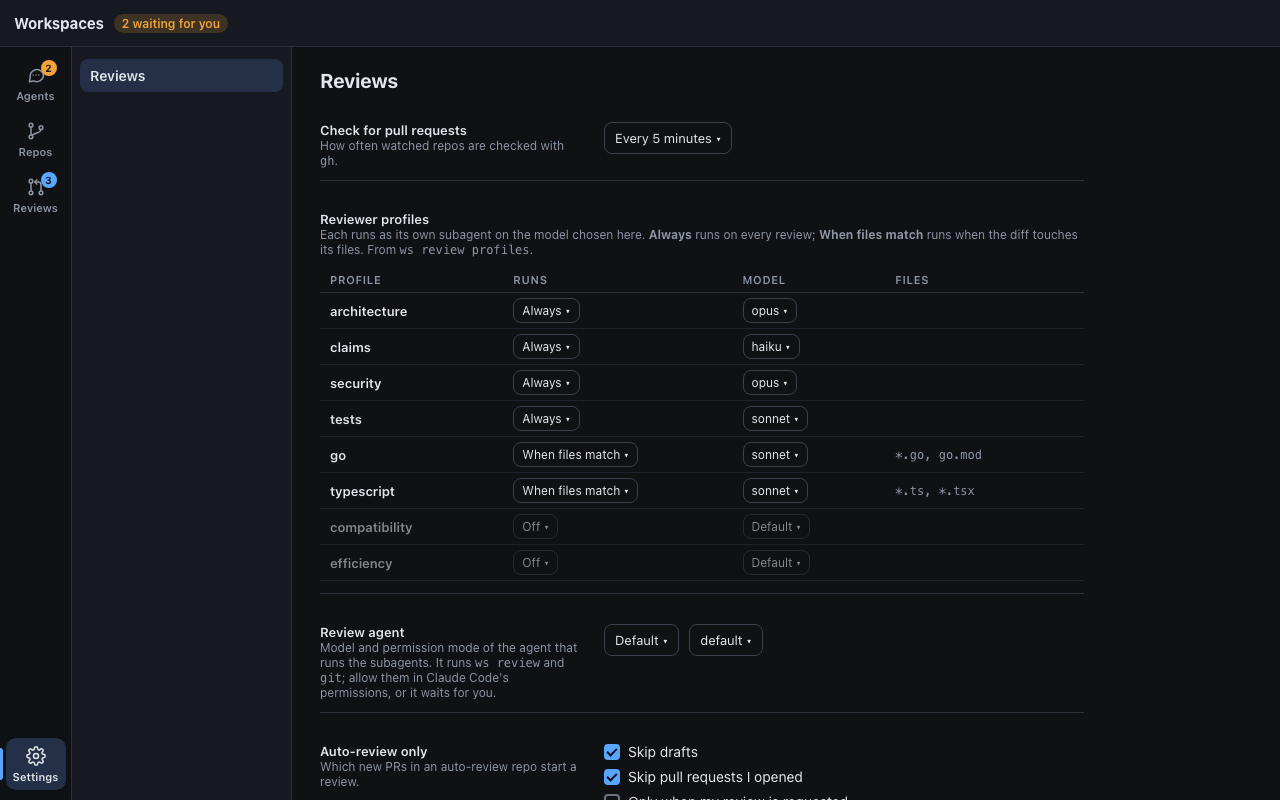
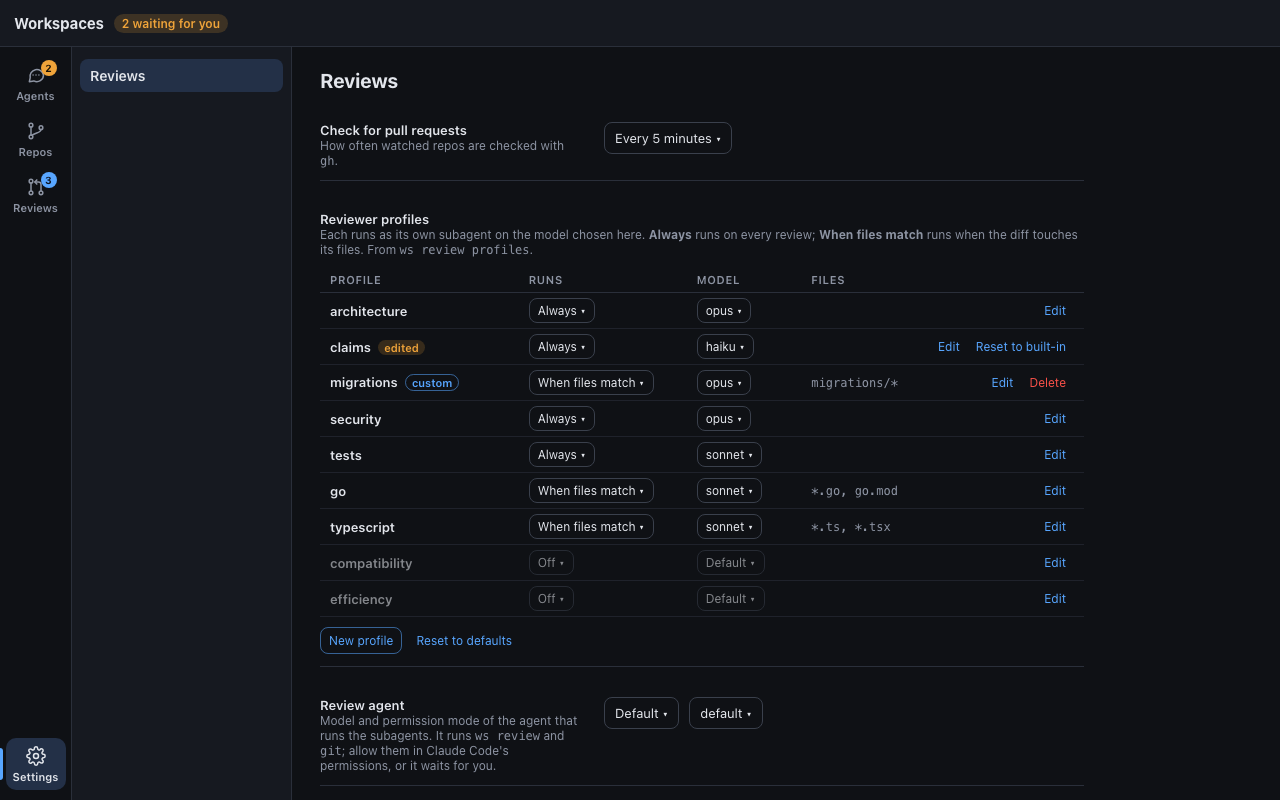
docs: design review profile management (ADR 0042) (#21)
Profiles are added, edited, and deleted with ws review profiles
subcommands, as files in CONFIG_DIR/review/profiles; editing a
built-in makes an override that deleting restores. Settings get a
profile editor and row actions.

Claude-Session: https://claude.ai/code/session_012GA632Y7YmUDztDM46q2zq

diff --git a/docs/design/loam-refinery-reviews/mockups.html b/docs/design/loam-refinery-reviews/mockups.html
@@ -550,7 +550,7 @@ ws review report review-buff-bear-42-3f2a9c1-8e1d --decided fix --json</div>
 );
 
 /* Settings */
-const settingsScreen = () => `
+const settingsScreen = (overlay = "") => `
   <div class="root">
     ${topBar("")}
     <div class="body">
@@ -563,20 +563,22 @@ const settingsScreen = () => `
         <div class="setting"><div class="label"><div>Check for pull requests</div><div class="muted">How often watched repos are checked with <span class="mono">gh</span>.</div></div><div class="control"><span class="input">Every 5 minutes ▾</span></div></div>
         <div class="setting" style="flex-direction:column;gap:10px"><div class="label" style="width:auto"><div>Reviewer profiles</div><div class="muted">Each runs as its own subagent on the model chosen here. <b>Always</b> runs on every review; <b>When files match</b> runs when the diff touches its files. From <span class="mono">ws review profiles</span>.</div></div>
           <table class="ptable">
-            <thead><tr><th style="width:24%">Profile</th><th style="width:30%">Runs</th><th style="width:20%">Model</th><th>Files</th></tr></thead>
+            <thead><tr><th style="width:26%">Profile</th><th style="width:22%">Runs</th><th style="width:15%">Model</th><th style="width:15%">Files</th><th></th></tr></thead>
             <tbody>
               ${[
                 ["architecture", "Always", "opus", ""],
-                ["claims", "Always", "haiku", ""],
+                ["claims", "Always", "haiku", "", "edited"],
+                ["migrations", "When files match", "opus", "migrations/*", "custom"],
                 ["security", "Always", "opus", ""],
                 ["tests", "Always", "sonnet", ""],
                 ["go", "When files match", "sonnet", "*.go, go.mod"],
                 ["typescript", "When files match", "sonnet", "*.ts, *.tsx"],
                 ["compatibility", "Off", "Default", ""],
                 ["efficiency", "Off", "Default", ""],
-              ].map(([n, w, m, f]) => `<tr style="${w === "Off" ? "opacity:.55" : ""}"><td style="font-weight:600">${n}</td><td><span class="input">${w} ▾</span></td><td><span class="input">${m} ▾</span></td><td class="mono muted" style="font-size:12px">${f}</td></tr>`).join("")}
+              ].map(([n, w, m, f, src]) => `<tr><td style="font-weight:600;${w === "Off" ? "opacity:.55" : ""}">${n}${src ? ` <span class="chip small ${src === "custom" ? "link" : "warn"}" style="margin-left:4px">${src}</span>` : ""}</td><td style="${w === "Off" ? "opacity:.55" : ""}"><span class="input">${w} ▾</span></td><td style="${w === "Off" ? "opacity:.55" : ""}"><span class="input">${m} ▾</span></td><td class="mono muted" style="font-size:12px">${f}</td><td style="text-align:right"><button class="btn small">Edit</button>${src === "custom" ? '<button class="btn small danger">Delete</button>' : src === "edited" ? '<button class="btn small">Reset to built-in</button>' : ""}</td></tr>`).join("")}
             </tbody>
           </table>
+          <div class="row" style="gap:6px"><button class="btn small outlined">New profile</button><button class="btn small">Reset to defaults</button></div>
         </div>
         <div class="setting"><div class="label"><div>Review agent</div><div class="muted">Model and permission mode of the agent that runs the subagents. It runs <span class="mono">ws review</span> and <span class="mono">git</span>; allow them in Claude Code's permissions, or it waits for you.</div></div><div class="control"><span class="input">Default ▾</span><span class="input">default ▾</span></div></div>
         <div class="setting"><div class="label"><div>Auto-review only</div><div class="muted">Which new PRs in an auto-review repo start a review.</div></div><div class="control" style="flex-direction:column;align-items:flex-start;gap:8px">
@@ -587,7 +589,33 @@ const settingsScreen = () => `
         <div class="setting"><div class="label"><div>At most</div><div class="muted">Auto-reviews running at once; the rest wait.</div></div><div class="control"><span class="input">2</span><span class="muted">review agents</span></div></div>
       </div></main>
     </div>
+    ${overlay}
   </div>`;
+
+
+const profileEditDialog = () => `
+  <div class="scrim"><div class="dialog wide">
+    <h2>Edit reviewer profile</h2>
+    <div class="dbody" style="gap:14px">
+      <div class="alert info"><span><b>security</b> is built in. Saving makes an edited copy in your profiles; <b>Reset to built-in</b> undoes it.</span></div>
+      <div class="fields"><div class="field"><label>Name</label><span class="mono">security</span></div><div class="field" style="flex:2.2"><label>Description</label>Security: untrusted input, the boundary it crosses, and what it reaches</div></div>
+      <div class="field"><label>File patterns</label><span class="row" style="gap:6px"><span class="chip small mono">none</span><span class="muted">Add a pattern, such as <span class="mono">*.go</span>, so it can run when files match</span></span></div>
+      <div>
+        <div class="tabs" style="margin-bottom:6px"><span class="tab active">Write</span><span class="tab">Preview</span><span class="spacer"></span><span class="muted">Markdown · the reviewer's instructions</span></div>
+        <div class="textarea" style="height:230px;overflow:hidden">Anchor a finding at the line where untrusted input crosses a boundary, not where it is finally used.
+
+Look hardest at:
+
+- Input from requests, files, and environment that reaches a query, a shell, a path, or a template without validation.
+- Secrets in logs, errors, and URLs; tokens compared without constant time.
+- Authorization checked in the handler but not in the code path a second caller uses.
+
+Also flag, in this codebase:
+- Webhook signatures checked after the body is parsed.</div>
+      </div>
+    </div>
+    <div class="dactions"><span class="muted" style="margin-right:auto;align-self:center;padding-left:6px">Applies to reviews started after you save</span><button class="btn">Cancel</button><button class="btn contained">Save</button></div>
+  </div></div>`;
 
 const screens = {
   report: () => reportScreen("", false),
@@ -597,7 +625,8 @@ const screens = {
   "report-reviewing": reviewingScreen,
   "report-outdated": outdatedScreen,
   "report-requester": requesterScreen,
-  "report-settings": settingsScreen,
+  "report-settings": () => settingsScreen(),
+  "report-profile-edit": () => settingsScreen(profileEditDialog()),
 };
 
 const render = () => {

diff --git a/docs/adrs/0042-review-profile-management.md b/docs/adrs/0042-review-profile-management.md
@@ -1,0 +1,155 @@
+# 0042. Review profiles are added, edited, and deleted with `ws review profiles`, as files in `CONFIG_DIR/review/profiles/`; a built-in is edited by overriding it and restored by deleting the override
+
+- Status: Proposed
+- Date: 2026-10-28
+
+## Context
+
+### Problem
+
+Reviewer profiles ([0038](0038-review-fans-out-to-profile-subagents.md))
+are eight built into `ws`, plus any Markdown file a user writes in
+`CONFIG_DIR/review/profiles/<name>.md`, which adds a profile or replaces
+the built-in of that name. `ws review profiles` only lists them, and the
+desktop app's settings only choose when each runs and on which model.
+There is no way, short of writing files by hand, to add a profile, change
+what one tells its reviewer, or remove one. How are profiles managed, from
+the CLI and from the app?
+
+### What a solution needs
+
+1. **Add, edit, and delete** a profile's description, file patterns, and
+   guide, from `ws` and from the desktop app.
+2. **Built-ins stay recoverable**: editing one can be undone, and a `ws`
+   upgrade that improves a built-in still reaches users who never edited
+   it.
+3. **One place for a profile's content**, so the CLI, the app, and agents
+   all see the same profile.
+4. **Safe while reviews run**: editing a profile doesn't change a review
+   that has already started.
+
+### Relevant facts
+
+- `profile.Set` reads the user's directory first, then the built-ins; a
+  user file hides the built-in of the same name, and a user file that
+  doesn't parse hides it too rather than falling back
+  (`internal/review/profile/set.go`).
+- A profile file is front matter (`description`, `when`, `match`) and a
+  Markdown body, the reviewer's guide (`internal/review/profile/profile.go`).
+  `decisions` is reserved and can't name a profile.
+- `when` and `model` can also be set in `config.toml` under
+  `[review.profiles.<name>]`, which `ws` writes once and never
+  rewrites ([0011](0011-config-dir.md), `internal/writeonce`); the app
+  keeps its own when/model table in `desktop.json` and passes it as
+  `--profile`/`--auto` flags ([0038](0038-review-fans-out-to-profile-subagents.md)).
+- `ws review start` puts each profile's guide into the session's
+  `--agents` JSON when the review starts ([0038](0038-review-fans-out-to-profile-subagents.md)).
+- `ws review profiles --json` reports `builtin: false` for a user file
+  that replaces a built-in, the same as for a new profile
+  (`internal/cli/review_profiles.go`).
+
+## Decision
+
+We will manage profiles as files in `CONFIG_DIR/review/profiles/`, through
+new `ws review profiles` subcommands, and give the app an editor that
+calls them.
+
+**Commands** (all take `--json`):
+
+```
+ws review profiles                       # list, as today, plus source
+ws review profiles show <name>           # one profile, with its guide
+ws review profiles add <name> --description D [--when W] [--match GLOB]... (--guide-file F | -)
+ws review profiles edit <name> [--description D] [--when W] [--match GLOB]... [--no-match] [--guide-file F | -]
+ws review profiles rm <name>
+```
+
+- **`source`** in the listing is `builtin`, `user`, or `override` (a user
+  file replacing a built-in); `builtin` stays for compatibility.
+- **`add`** writes `<name>.md`. The name must be a valid profile name
+  (`profile_invalid`, exit 2); an existing profile of that name, built-in
+  or not, is `profile_exists` (exit 4). The guide comes from a file or
+  stdin and can't be empty.
+- **`edit`** changes only the fields given. Editing a `user` or
+  `override` profile rewrites its file; editing a `builtin` writes a full
+  copy to the user directory first, so it becomes an `override`.
+- **`rm`** deletes the user's file. For an `override` that restores the
+  built-in; a `builtin` with no override is `profile_builtin` (exit 4),
+  with advice to set it Off instead. An unknown name is
+  `profile_unknown`.
+- Writes are a temp file and a rename, under a lock on the directory;
+  every write is parsed back before the rename, so a broken file is never
+  left behind.
+
+**The app.** Settings' Reviewer profiles table gets **New profile**, and
+**Edit** and **Delete** (or **Reset to built-in** for an override) on each
+row, with a source badge. The editor dialog edits the description, file
+patterns, and guide (Markdown, with a preview), and runs `add` or
+`edit`. **Runs** and **Model** stay table columns, kept in `desktop.json`
+as now; a new profile's Runs is also written as its `when`, so the CLI's
+default matches. Deleting asks first, saying whether the built-in comes
+back.
+
+**Running reviews** aren't affected: `ws review start` already copies each
+guide into the session's `--agents` definitions, so an edit applies to
+reviews started after it.
+
+### Why this option
+
+1. Files are what `profile.Set` already reads, so the CLI, the app, and
+   agents share one source; the commands only add safe ways to write them.
+2. Overriding instead of editing in place keeps built-ins pristine:
+   upgrades still improve the ones nobody touched, and **Reset to
+   built-in** is a file delete.
+3. Content (description, patterns, guide) lives in the file; per-review
+   choices (when, model) stay where 0038 put them, so nothing is stored
+   twice.
+4. Guides are copied into a session when it starts, so an edit can't
+   change a review mid-run.
+
+It's weak in that `when` is in two places for a profile the app created:
+the file's default, used by the CLI, and the app's Runs column, which
+overrides it for reviews the app starts. And an override doesn't follow
+later improvements to its built-in; the listing's `override` source is
+how a user notices.
+
+## Alternatives
+
+### Keep profiles in `desktop.json`
+
+**Pros:** no new `ws` commands; the app owns its settings.
+**Cons:** agents and the CLI wouldn't see profiles made in the app, and
+`ws review start` would need them passed in full on every call.
+
+### Store everything, including model, in the profile file
+
+**Pros:** one record per profile.
+**Cons:** the model is a per-person choice that 0038 put in settings, and
+mixing it into shareable profile files would make copying a profile copy
+someone's model too.
+
+### Let `rm` hide a built-in
+
+Write a tombstone file that hides a built-in completely.
+
+**Pros:** a list with only the profiles you use.
+**Cons:** a second mechanism for what **Off** already does, and a hidden
+built-in is easy to forget about.
+
+## Consequences
+
+- Amends [0038](0038-review-fans-out-to-profile-subagents.md) (profiles
+  can be managed, not only read) and [0016](0016-output-contract.md)
+  (error codes `profile_invalid` under exit 2, `profile_exists` and
+  `profile_builtin` under exit 4).
+- `docs/tools/ws-review.md` and `ws llm review` describe the commands;
+  `report.md` describes the editor.
+- Conformance: Go tests for each command, including editing a built-in
+  (becomes an override), `rm` of an override (built-in returns) and of a
+  built-in (refused), invalid and reserved names, an empty guide, and a
+  write that wouldn't parse; cargo and Vitest tests for the editor and the
+  table's actions.
+
+## References
+
+None beyond the files named above.

diff --git a/docs/adrs/README.md b/docs/adrs/README.md
@@ -182,7 +182,7 @@ Cloning from the cache took 0.28 s versus 4.40 s from upstream[^bench-clone].
 | [0013](0013-cleanup-ignores-git-state.md) | Remove workspaces a grace period after their last session ends, whatever their git state | Superseded by [0015](0015-workspace-lifetime-follows-session.md) |
 | [0014](0014-command-set.md) | `ws` command set: one command per use case, and an agent guide | Accepted; `ws restart` added by [0018](0018-restart-claude-daemon.md); `ws claude` attach conditions and session name amended by [0025](0025-ws-claude-session-hand-off.md); `ws cache refs` added by [0033](0033-ws-cache-refs.md) (proposed); `ws review` added by [0039](0039-ws-review-command.md) |
 | [0015](0015-workspace-lifetime-follows-session.md) | A workspace lives exactly as long as its one session | Accepted; session reading amended by [0024](0024-claude-code-client.md); agent lock and orphaned-session removal amended by [0025](0025-ws-claude-session-hand-off.md); removal timing and `ws rm` amended by [0026](0026-removal-pass-timing.md); session directory and repo trust amended by [0028](0028-single-repo-session-directory.md) (proposed) |
-| [0016](0016-output-contract.md) | Output contract: one JSON object on stdout, errors as JSON on stderr, five exit codes | Accepted; shell exit status amended by [0023](0023-shell-session-keeps-creation-lock.md); `ws claude` attached exit status amended by [0025](0025-ws-claude-session-hand-off.md); `workspace_busy` and `session_mismatch` added by [0026](0026-removal-pass-timing.md); review error codes added by [0039](0039-ws-review-command.md) |
+| [0016](0016-output-contract.md) | Output contract: one JSON object on stdout, errors as JSON on stderr, five exit codes | Accepted; shell exit status amended by [0023](0023-shell-session-keeps-creation-lock.md); `ws claude` attached exit status amended by [0025](0025-ws-claude-session-hand-off.md); `workspace_busy` and `session_mismatch` added by [0026](0026-removal-pass-timing.md); review error codes added by [0039](0039-ws-review-command.md); profile error codes added by [0042](0042-review-profile-management.md) (proposed) |
 | [0017](0017-clones-not-worktrees.md) | Workspace repos are clones of the cache, not git worktrees | Accepted |
 | [0018](0018-restart-claude-daemon.md) | `ws restart` swaps Claude Code's background service and respawns each session once it's idle | Accepted; "working" amended by [0024](0024-claude-code-client.md); stale detection amended by [0026](0026-removal-pass-timing.md); respawn lock added by [0027](0027-respawn-lock-and-record-versions.md) |
 | [0019](0019-https-upstream-urls.md) | Build HTTPS upstream URLs; SSH through git's `insteadOf` | Accepted |
@@ -204,10 +204,11 @@ Cloning from the cache took 0.28 s versus 4.40 s from upstream[^bench-clone].
 | [0035](0035-desktop-review-checker.md) | The desktop app checks watched repos for pull requests in its Rust backend, with `gh pr list --repo <cache id>`, four at a time, and starts auto-reviews there | Proposed |
 | [0036](0036-workspace-id-suffix-and-rename.md) | An id from `--name` ends with 8 random hex digits, and `ws rename` changes the display name without moving the workspace | Proposed |
 | [0037](0037-review-engine-forked-from-loam-refinery.md) | Reviews are a `ws` feature built from a fork of loam-refinery's code and specialized for workspaces; `ws` doesn't run or depend on loam-refinery | Accepted |
-| [0038](0038-review-fans-out-to-profile-subagents.md) | A review stays one agent per PR head; `ws` chooses its profiles and defines one Claude Code subagent per profile, with that profile's model | Accepted |
+| [0038](0038-review-fans-out-to-profile-subagents.md) | A review stays one agent per PR head; `ws` chooses its profiles and defines one Claude Code subagent per profile, with that profile's model | Accepted; profiles managed by [0042](0042-review-profile-management.md) (proposed) |
 | [0039](0039-ws-review-command.md) | `ws review` starts a review with a record of what it reviews and who asked, keeps submissions in `CONFIG_DIR/reviews/`, and `wait` hands the requester the combined report | Accepted |
 | [0040](0040-review-decisions-kept-with-findings.md) | A decision per finding is kept with the review in `ws`'s store, set with `ws review decide`; the desktop app renders findings itself from `ws review report --json` | Accepted |
 | [0041](0041-desktop-acts-on-findings.md) | Selected findings are posted as one GitHub review at the reviewed commit after a preview, and sent to fix to the requesting agent, or else to a new agent on the PR's branch | Accepted |
+| [0042](0042-review-profile-management.md) | Review profiles are added, edited, and deleted with `ws review profiles`, as files in `CONFIG_DIR/review/profiles/`; a built-in is edited by overriding it and restored by deleting the override | Proposed |
 
 [^aws-process]: AWS Prescriptive Guidance, "ADR process." <https://docs.aws.amazon.com/prescriptive-guidance/latest/architectural-decision-records/adr-process.html> (accessed 2026-10-17). "When the team accepts an ADR, it becomes immutable. If new insights require a different decision, the team proposes a new ADR." On rejection: "the ADR owner adds a reason for the rejection to prevent future discussions on the same topic."
 [^aws-blog]: C. Kappey, D. Goby, D. Kunce, "Master architecture decision records (ADRs): Best practices for effective decision-making," AWS Architecture Blog, 2025-03-20. <https://aws.amazon.com/blogs/architecture/master-architecture-decision-records-adrs-best-practices-for-effective-decision-making/> (accessed 2026-10-17). "Keep ADRs concise by focusing on a single decision."

diff --git a/docs/design/loam-refinery-reviews/report.md b/docs/design/loam-refinery-reviews/report.md
@@ -215,6 +215,34 @@ The Reviews group changes in three places:
   NAME:MODEL` and `--auto NAME:MODEL`
   ([0038](../../adrs/0038-review-fans-out-to-profile-subagents.md)).
   **Reset to defaults** under the table drops them.
+
+  Profiles themselves are managed here too
+  ([0042](../../adrs/0042-review-profile-management.md)):
+  - A badge after each name says where it comes from: none for a
+    built-in, **custom** for one you added, **edited** for a built-in
+    you've changed.
+  - Each row ends with **Edit**, and **Delete** for a custom profile or
+    **Reset to built-in** for an edited one. A built-in has no Delete;
+    set it to *Off*. Both ask first, saying what comes back.
+  - **New profile**, beside Reset to defaults, opens the editor empty.
+
+![Editing a reviewer profile](img/report-profile-edit.png)
+
+  The editor is a wide dialog:
+  - **Name**: lowercase letters, digits, and hyphens; editable only when
+    creating. A taken name is an error under the field.
+  - **Description**: one line, shown in the table and the report's
+    profile tiles.
+  - **File patterns**: chips (`*.go`, `go.mod`); a profile with patterns
+    can run *When files match*.
+  - **Guide**: the reviewer's instructions, in Markdown, with
+    **Write** and **Preview** tabs.
+  - For a built-in, a note says saving makes an edited copy, and that
+    Reset to built-in undoes it.
+  - **Save** runs `ws review profiles add` or `edit` with the guide on
+    stdin; errors keep the dialog open with `ws`'s message. Edits apply
+    to reviews started afterwards; running reviews keep the guide they
+    started with.
 - **Review task is removed.** `ws review` writes the review's prompt
   itself, so a template isn't needed. A request for focus belongs to one
   review, not every one: **Edit before starting** keeps a *Focus* field
@@ -242,7 +270,7 @@ are rendered from it at 1280 × 800:
 
 ```console
 $ H=$(find ~/Library/Caches/ms-playwright -name chrome-headless-shell -type f | head -1)
-$ for s in report report-finding report-comment report-fix report-reviewing report-outdated report-requester report-settings; do
+$ for s in report report-finding report-comment report-fix report-reviewing report-outdated report-requester report-settings report-profile-edit; do
     "$H" --hide-scrollbars --window-size=1280,800 --screenshot="$PWD/img/$s.png" "file://$PWD/mockups.html#$s"
   done
 ```
